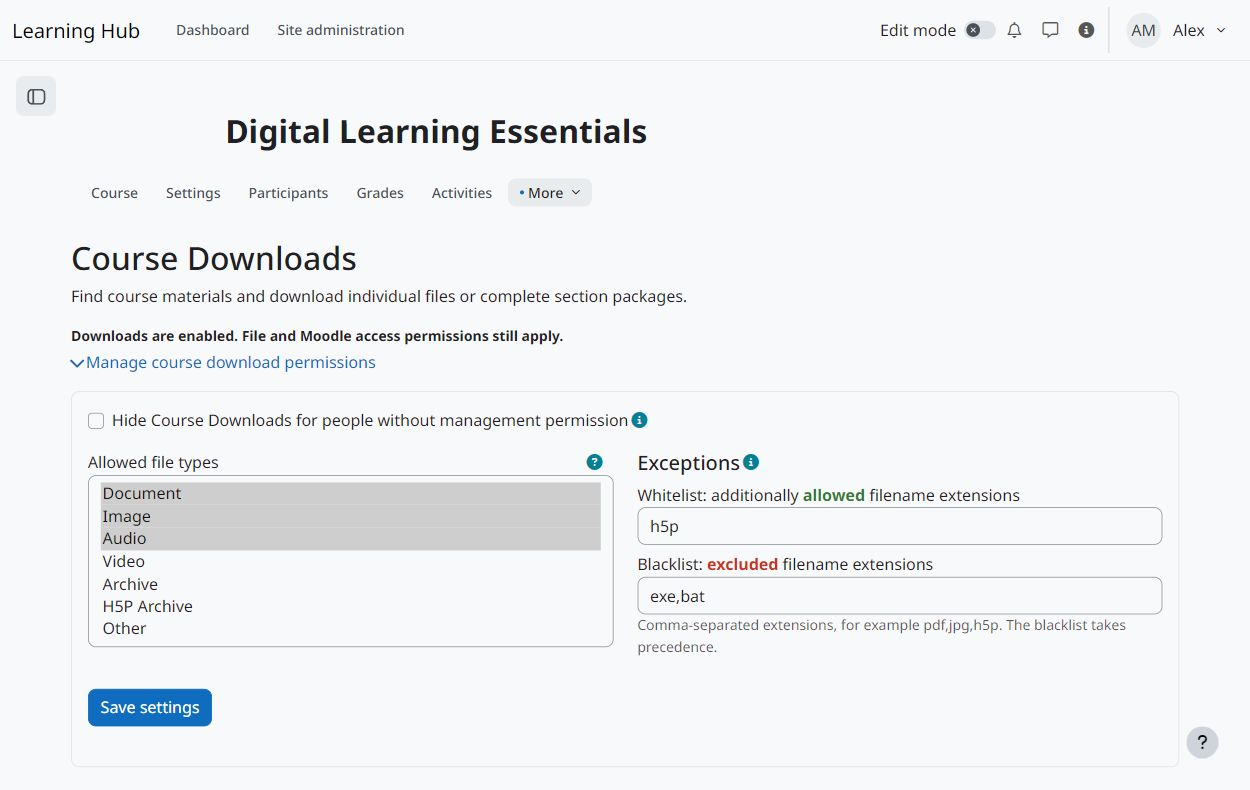
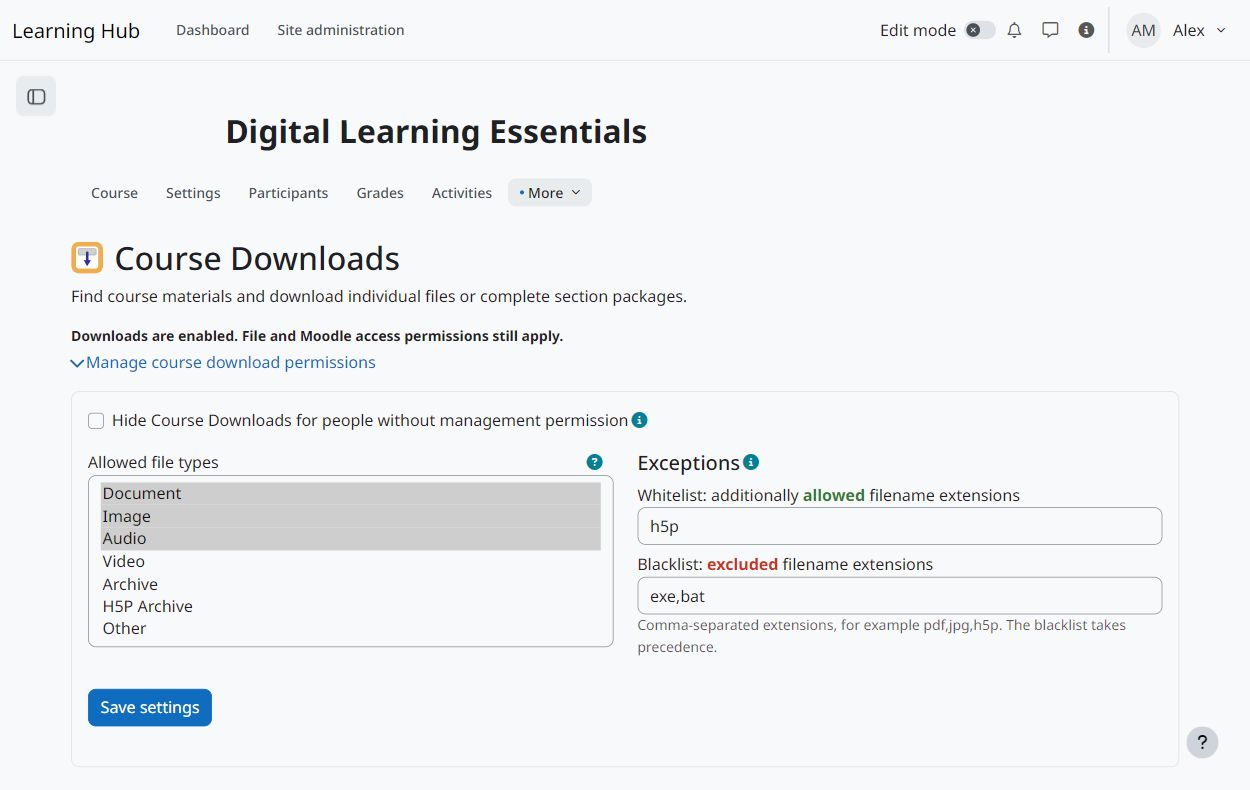
Release Course Downloads 4.0.2 with original product branding

Changed region(s): [[0.0312, 0.3038, 0.312, 0.3646]]

diff --git a/styles/view.css b/styles/view.css
@@ -27,3 +27,10 @@
     .local-coursedownloads-downloads .local-plugin-search-bar-fields > * { flex-basis: 100%; }
     .local-coursedownloads-downloads .local-plugin-search-bar-field select { width: 100%; }
 }
+
+.local-coursedownloads-product-logo {
+    width: 1em;
+    height: 1em;
+    margin-inline-end: .35em;
+    vertical-align: -.125em;
+}

diff --git a/classes/local/admin_branding.php b/classes/local/admin_branding.php
@@ -1,0 +1,112 @@
+<?php
+// Copyright (C) 2026 Andreas Giesen. See the plugin's LICENSE or LICENSE.md.
+namespace local_coursedownloads\local;
+
+defined('MOODLE_INTERNAL') || die();
+
+/** Decorative product identity on explicitly selected administration surfaces only. */
+final class admin_branding {
+    /** Native page paths and their existing system-level administration capabilities. */
+    private const PAGES = [];
+    /** Existing native settings sections; these are never customer routes. */
+    private const SECTIONS = ['local_coursedownloads'];
+    /** Existing administration links, without changing their labels or destinations. */
+    private const LINKS = ['/{admin}/settings.php?section=local_coursedownloads' => 'moodle/site:config'];
+
+    /** Give native external pages a product heading when Core supplied only the site name. */
+    public static function prepare(\core\hook\output\before_http_headers $hook): void {
+        global $CFG, $PAGE, $SITE;
+        if (self::page_capability() !== null
+                && ($PAGE->url->get_path() === (new \moodle_url('/' . $CFG->admin . '/settings.php'))->get_path()
+                    || trim(strip_tags($PAGE->heading)) === trim(strip_tags($SITE->fullname)))) {
+            $PAGE->set_heading(get_string('pluginname', 'local_coursedownloads'));
+        }
+    }
+
+    public static function head(\core\hook\output\before_standard_head_html_generation $hook): void {
+        $hook->add_html(self::html($hook->renderer));
+    }
+
+    /** Allowlist shared with this plugin's contextual administration help, if present. */
+    public static function page_capability(): ?string {
+        global $CFG, $PAGE;
+        if (during_initial_install() || !isloggedin() || isguestuser()
+                || (int)$PAGE->context->contextlevel !== CONTEXT_SYSTEM) {
+            return null;
+        }
+        $path = $PAGE->url->get_path();
+        $system = \context_system::instance();
+        foreach (self::PAGES as $route => $capability) {
+            if ($path === (new \moodle_url($route))->get_path() && has_capability($capability, $system)) {
+                return $capability;
+            }
+        }
+        if ($path === (new \moodle_url('/' . $CFG->admin . '/settings.php'))->get_path()
+                && in_array((string)$PAGE->url->get_param('section'), self::SECTIONS, true)
+                && has_capability('moodle/site:config', $system)) {
+            return 'moodle/site:config';
+        }
+        return null;
+    }
+
+    /** Also used by the pre-hook fallback on supported older Moodle versions. */
+    public static function html(\renderer_base $renderer): string {
+        global $CFG, $PAGE;
+
+        if (during_initial_install() || !isloggedin() || isguestuser()) {
+            return '';
+        }
+        $path = $PAGE->url->get_path();
+        $admin = '/' . $CFG->admin;
+        $nativepath = static fn(string $value): string => (new \moodle_url($value))->get_path();
+        $system = \context_system::instance();
+        $css = '';
+        $image = json_encode($renderer->image_url('adminbrand', 'local_coursedownloads')->out(false),
+            JSON_UNESCAPED_SLASHES | JSON_THROW_ON_ERROR);
+
+        // An administrator looking at a customer or course page still sees no product branding.
+        if (self::page_capability() !== null && $path !== $nativepath($admin . '/settings.php')) {
+            $css .= self::title_css('#page-header h1', $image);
+        } else if (self::page_capability() !== null) {
+            // The product is the native H1; suppress only Core's now-redundant settings caption.
+            $css .= self::title_css('#page-header h1', $image);
+            $css .= '#adminsettings .settingsform > h2 { display: none; }' . "\n";
+        }
+        if ($path === $nativepath($admin . '/plugins.php')
+                && has_capability('moodle/site:config', $system)) {
+            // Do not replace pix/icon or monologo: those may also identify a learner-facing activity.
+            $row = 'body#page-admin-plugins tr.name-local_coursedownloads .pluginname .displayname';
+            $css .= $row . ' > img.icon { display: none; }' . "\n";
+            $css .= self::icon_css($row . '::before', $image, '1em');
+        }
+        if ($path === $nativepath($admin . '/search.php')) {
+            foreach (self::LINKS as $target => $capability) {
+                if (!has_capability($capability, $system)) {
+                    continue;
+                }
+                $target = str_replace('{admin}', $CFG->admin, $target);
+                $link = json_encode((new \moodle_url($target))->out(false),
+                    JSON_UNESCAPED_SLASHES | JSON_THROW_ON_ERROR);
+                $css .= self::icon_css('body#page-admin-search #region-main a[href=' . $link . ']::before',
+                    $image, '1em');
+            }
+        }
+        return $css === '' ? '' : \html_writer::tag('style', $css, ['id' => 'local_coursedownloads-admin-branding']);
+    }
+
+    private static function icon_css(string $selector, string $image, string $size): string {
+        return $selector . ' { content: ""; display: inline-block; width: ' . $size . '; height: ' . $size
+            . '; margin-inline-end: .35em; vertical-align: -.125em; background: url(' . $image
+            . ') center / contain no-repeat; }' . "\n";
+    }
+
+    private static function title_css(string $selector, string $image): string {
+        return self::icon_css($selector . '::before', $image, '1em') . <<<CSS
+@media (max-width: 575.98px) {
+    #page-header .d-flex:has(> .header-actions-container) { flex-wrap: wrap; row-gap: .5rem; }
+    #page-header .d-flex:has(> .header-actions-container) > .me-auto { flex: 1 0 100%; }
+    #page-header .header-actions-container { order: -1; flex: 0 0 100%; display: flex; justify-content: flex-end; }
+}
+CSS;
+    }
+}

diff --git a/classes/output/renderer.php b/classes/output/renderer.php
@@ -109,6 +109,7 @@ class renderer extends \plugin_renderer_base {
         $params = [];
         foreach ($this->filter_url($coursedownloads)->params() as $name => $value) { $params[] = ['name' => $name, 'value' => $value]; }
         return $this->render_from_template('local_coursedownloads/view', [
+            'productlogourl' => $this->output->image_url('adminbrand', 'local_coursedownloads')->out(false),
             'url' => $url->out(false), 'sesskey' => sesskey(), 'courseid' => $coursedownloads->get_course_id(),
             'posturl' => (new \moodle_url('/local/coursedownloads/index.php'))->out(false), 'filterparams' => $params,
             'filterbar' => $showpage ? $this->filters($coursedownloads, $filtertypes) : '',

diff --git a/db/hooks.php b/db/hooks.php
@@ -3,6 +3,10 @@
 // SPDX-License-Identifier: GPL-3.0-or-later
 defined('MOODLE_INTERNAL') || die();
 $callbacks = [
+    ['hook' => \core\hook\output\before_http_headers::class,
+        'callback' => [\local_coursedownloads\local\admin_branding::class, 'prepare']],
+    ['hook' => \core\hook\output\before_standard_head_html_generation::class,
+        'callback' => [\local_coursedownloads\local\admin_branding::class, 'head']],
     ['hook' => \core_course\hook\after_form_definition::class,
         'callback' => [\local_coursedownloads\course_hooks::class, 'definition']],
     ['hook' => \core_course\hook\after_form_submission::class,

diff --git a/version.php b/version.php
@@ -29,8 +29,8 @@
 defined('MOODLE_INTERNAL') || die;
 
 $plugin->component = "local_coursedownloads";
-$plugin->version   = 2026102006;
+$plugin->version   = 2026102007;
 $plugin->requires  = 2024100700; // Moodle 4.5.
 $plugin->maturity  = MATURITY_STABLE;
-$plugin->release   = '4.0.1';
+$plugin->release   = '4.0.2';
 $plugin->supported = [405, 503];

diff --git a/README.md b/README.md
@@ -1,3 +1,7 @@
+<p align="center">
+  <img src="https://raw.githubusercontent.com/108design/moodle-local_coursedownloads/main/docs/branding/logo.svg" alt="Course Downloads" width="125" height="125">
+</p>
+
 # Course Downloads for Moodle
 
 A simple Moodle local plugin that allows students
@@ -98,6 +102,8 @@ Use the information icon in the top navigation for the page help. Consequential 
 link directly to their help topics.
 
 ## Changelog
+- Version 2026102007 — 4.0.2
+  - Added the Course Downloads product logo to headings, plugin administration and documentation.
 - Version 2026102006 — 4.0.1
   - Renamed to Course Downloads (local_coursedownloads).
   - Migrates existing Course Files course settings and permission overrides.
